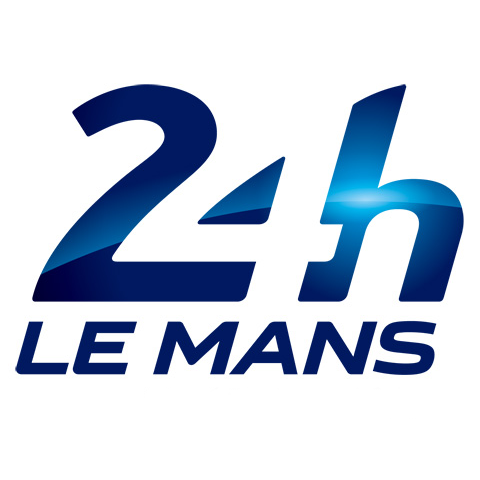
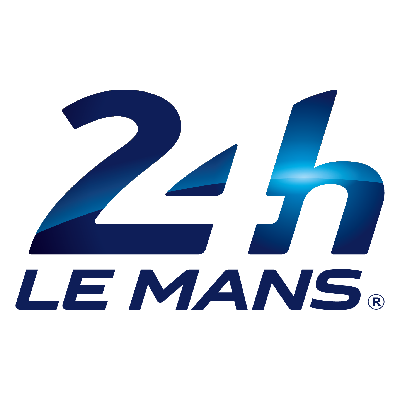
ニュル24H、スパ24Hのデータを追加

diff --git a/frontend/src/lib/settings.ts b/frontend/src/lib/settings.ts
@@ -7,7 +7,13 @@ export type Race = {
   start: Date;
   end: Date;
   place: ClockPoint;
+  logo: Logo;
 };
+export type Logo = {
+  imageFile: string;
+  foregroundColor: string;
+  backgroundColor: string;
+}
 
 const PLACE_DEFAULT: ClockPoint = {
   label: "tokyo",
@@ -22,25 +28,79 @@ const place_lemans: ClockPoint = {
   lon: 0.207354,
 };
 const place_spa: ClockPoint = {
-  label: "spa francorchamps",
+  label: "spa-francorchamps",
   tz: "Europe/Brussels",
-  lat: 0,
-  lon: 0,
+  lat: 50.4428908,
+  lon: 5.9652831,
+};
+const place_nur: ClockPoint = {
+  label: "nürburgring",
+  tz: "Europe/Berlin",
+  lat: 50.3355987,
+  lon: 6.947032,
 };
 export const RACES: Race[] = [
   {
-    id: "lemans-2026",
-    name: "24 Heures du Mans 2026",
+    id: "2026-lemans24",
+    name: "2026 - 24 Heures du Mans",
     start: new Date("2026-06-13T14:00:00+02:00"),
     end: new Date("2026-06-14T14:00:00+02:00"),
     place: place_lemans,
+    logo: {
+      imageFile:"/24h_lemans.png",
+      foregroundColor:"#0d64ff",
+      backgroundColor:"#ffffff",
+    }
   },
   {
-    id: "lemans-2025",
-    name: "24 Heures du Mans 2025",
+    id: "2026-spa24",
+    name: "2026 - CrowdStrike 24 Hours of Spa",
+    //start: new Date("2026-06-24T00:00:00Z"),//公式サイトのカウントダウンがここを目指しているがおそらくプログラム開始当日のUTCゼロ時という意味と思われる。レースは例年通りの時間なら↓
+    //end: new Date("2026-06-25T00:00:00Z"),
+    start: new Date("2026-06-27T16:30:00+02:00"),
+    end: new Date("2026-06-28T16:30:00+02:00"),
+    place: place_spa,
+    logo: {
+      imageFile:"/crowdstrike-24-hours-spa-logo.svg",
+      foregroundColor:"rgba(0,0,0,0)",
+      backgroundColor:"rgb(255,255,255)",
+    }
+  },
+  {
+    id: "2025-lemans24",
+    name: "2025 - 24 Heures du Mans",
     start: new Date("2025-06-14T14:00:00+02:00"),
     end: new Date("2025-06-15T14:00:00+02:00"),
     place: place_lemans,
+    logo: {
+      imageFile:"/24h_lemans.png",
+      foregroundColor:"rgba(0,0,0,0)",
+      backgroundColor:"rgb(255,255,255)",
+    }
+  },
+  {
+    id: "2025-nur24",
+    name: "2025 - ADAC RAVENOL 24h Nürburgring",
+    start: new Date("2025-06-21T16:00:00+02:00"),
+    end: new Date("2025-06-22T16:00:00+02:00"),
+    place: place_nur,
+    logo: {
+      imageFile:"/ADAC_Ravenol_24h_2024_CMYK_1c_trans.png",
+      foregroundColor:"rgb(255,255,255)",
+      backgroundColor:"#43632d",
+    }
+  },
+  {
+    id: "2025-spa24",
+    name: "2025 - CrowdStrike 24 Hours of Spa",
+    start: new Date("2025-06-28T16:30:00+02:00"),
+    end: new Date("2025-06-29T16:30:00+02:00"),
+    place: place_spa,
+    logo: {
+      imageFile:"/crowdstrike-24-hours-spa-logo.svg",
+      foregroundColor:"rgba(0,0,0,0)",
+      backgroundColor:"rgb(255,255,255)",
+    }
   },
 ];
 
@@ -48,6 +108,9 @@ export type Settings = {
   raceId: string;
   race: RaceSchedule;
   otherPlace: ClockPoint;
+  logoImageFile:string;
+  logoForegroundColor:string;
+  logoBackgroundColor:string;
 };
 export const SETTINGS_DEFAULT: Settings = {
   raceId: RACES[0].id,
@@ -57,6 +120,9 @@ export const SETTINGS_DEFAULT: Settings = {
     point: RACES[0].place,
   },
   otherPlace: PLACE_DEFAULT,
+  logoImageFile:"/24h_lemans.png",
+  logoForegroundColor:"rgba(0,0,0,0.5)",
+  logoBackgroundColor:"rgba(255,255,255,0.5)",
 };
 export type SettingsInternal = {
   raceId: string;
@@ -95,6 +161,9 @@ export function loadSettings(): Settings {
         lat: internal.lat,
         lon: internal.lon,
       },
+      logoImageFile: race.logo.imageFile,
+      logoForegroundColor: race.logo.foregroundColor,
+      logoBackgroundColor: race.logo.backgroundColor,
     };
   } catch {
     return SETTINGS_DEFAULT;

diff --git a/frontend/src/components/race-dashboard.tsx b/frontend/src/components/race-dashboard.tsx
@@ -15,29 +15,27 @@ export default function RaceDashboard() {
   }, []);
 
   const settings = loadSettings();
-  const clock_race = settings.race;
-  const clock_view = settings.otherPlace;
-  const clocks = [clock_race.point, clock_view];
+  const clocks = [settings.race.point, settings.otherPlace];
 
   const raceSolarEvents = solarEventsInRangeWithPrev(
-    clock_race.start,
-    clock_race.end,
-    clock_race.point.lat,
-    clock_race.point.lon
+    settings.race.start,
+    settings.race.end,
+    settings.race.point.lat,
+    settings.race.point.lon
   );
 
   return (
     <div className="wrap">
       {/* 上：文字のレース時計 */}
       <section className="top">
-        <RaceClocks start={clock_race.start} end={clock_race.end} now={now} />
+        <RaceClocks start={settings.race.start} end={settings.race.end} now={now} logoImageFile={settings.logoImageFile} logoForegroundColor={settings.logoForegroundColor} logoBackgroundColor={settings.logoBackgroundColor} />
       </section>
 
       {/* 中：横幅いっぱいの進捗バー */}
       <section className="bar">
         <ProgressBarHost
-          start={clock_race.start}
-          end={clock_race.end}
+          start={settings.race.start}
+          end={settings.race.end}
           now={now}
           solarEvents={raceSolarEvents.events}
           solarInitialState={raceSolarEvents.initialState}

diff --git a/frontend/src/components/race-clocks.tsx b/frontend/src/components/race-clocks.tsx
@@ -13,6 +13,9 @@ type Props = {
   start: Date; // UTCの瞬間
   end: Date; // UTCの瞬間
   now: Date; // 親で集約した "now"
+  logoImageFile: string;
+  logoForegroundColor: string;
+  logoBackgroundColor: string;
 };
 
 function msToHMS(ms: number, isRemain: number) {
@@ -38,7 +41,7 @@ function msToHMS(ms: number, isRemain: number) {
   )}${sep}${String(m).padStart(2, "0")}${sep}${String(s).padStart(2, "0")}`;
 }
 
-export default function RaceClocks({ start, end, now }: Props) {
+export default function RaceClocks({ start, end, now, logoImageFile, logoForegroundColor, logoBackgroundColor }: Props) {
   const { edColor, darkColor, lightColor } = useThemeColors();
   const within = +now >= +start && +now <= +end;
 
@@ -70,7 +73,7 @@ export default function RaceClocks({ start, end, now }: Props) {
         }}
       >
         <Image
-          src="/24h_lemans.png"
+          src={logoImageFile}
           alt="logo"
           width={480}
           height={480}
@@ -78,6 +81,9 @@ export default function RaceClocks({ start, end, now }: Props) {
             width: "auto",
             height: "100%",
             border: `1px solid ${edColor}`,
+            backgroundColor:logoBackgroundColor,
+            color:logoForegroundColor,
+            fill:logoForegroundColor,
           }}
         />
       </div>
